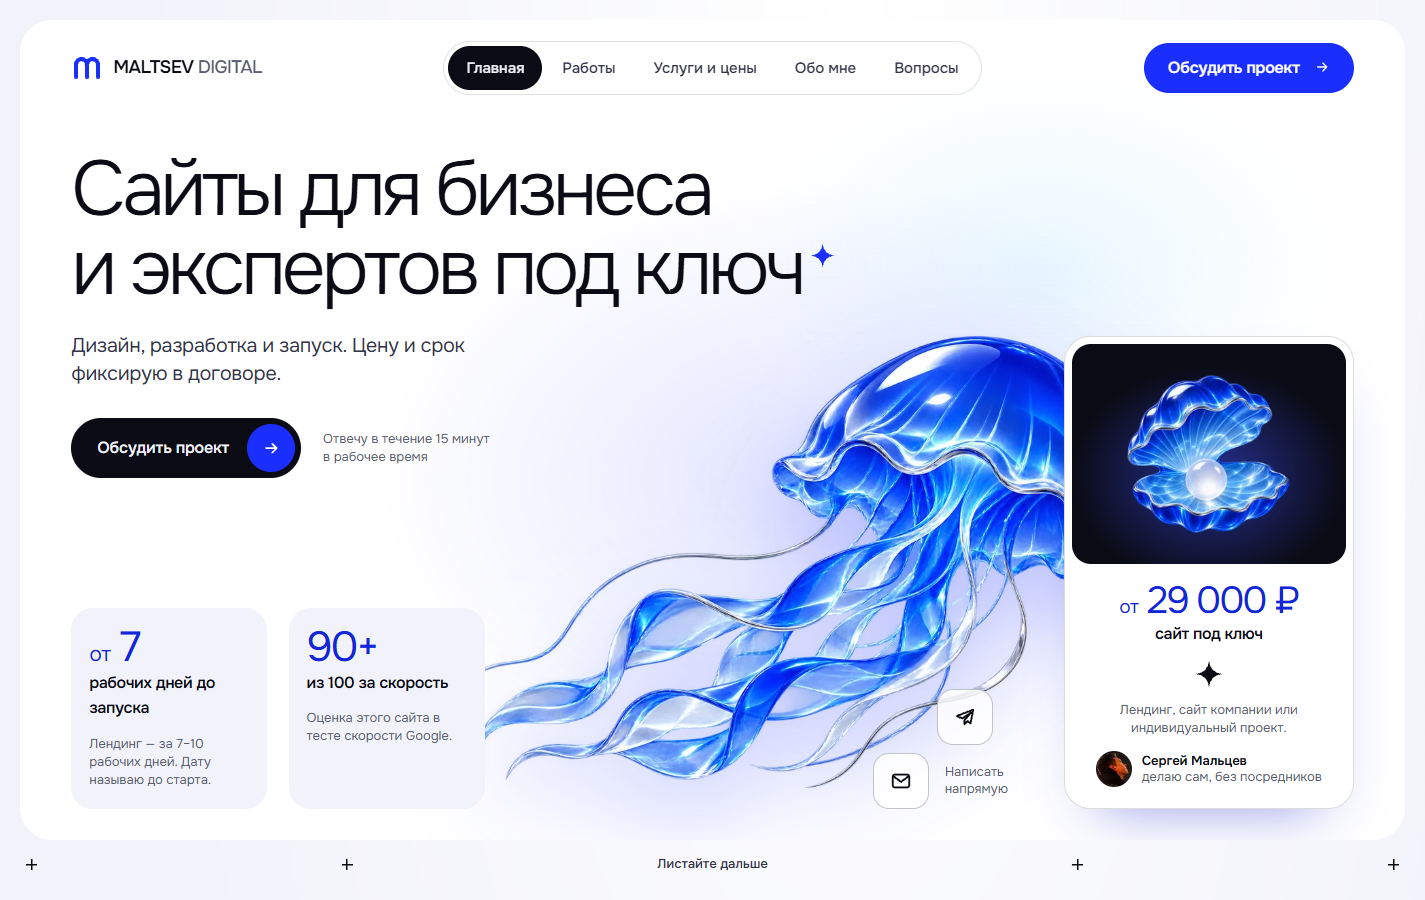
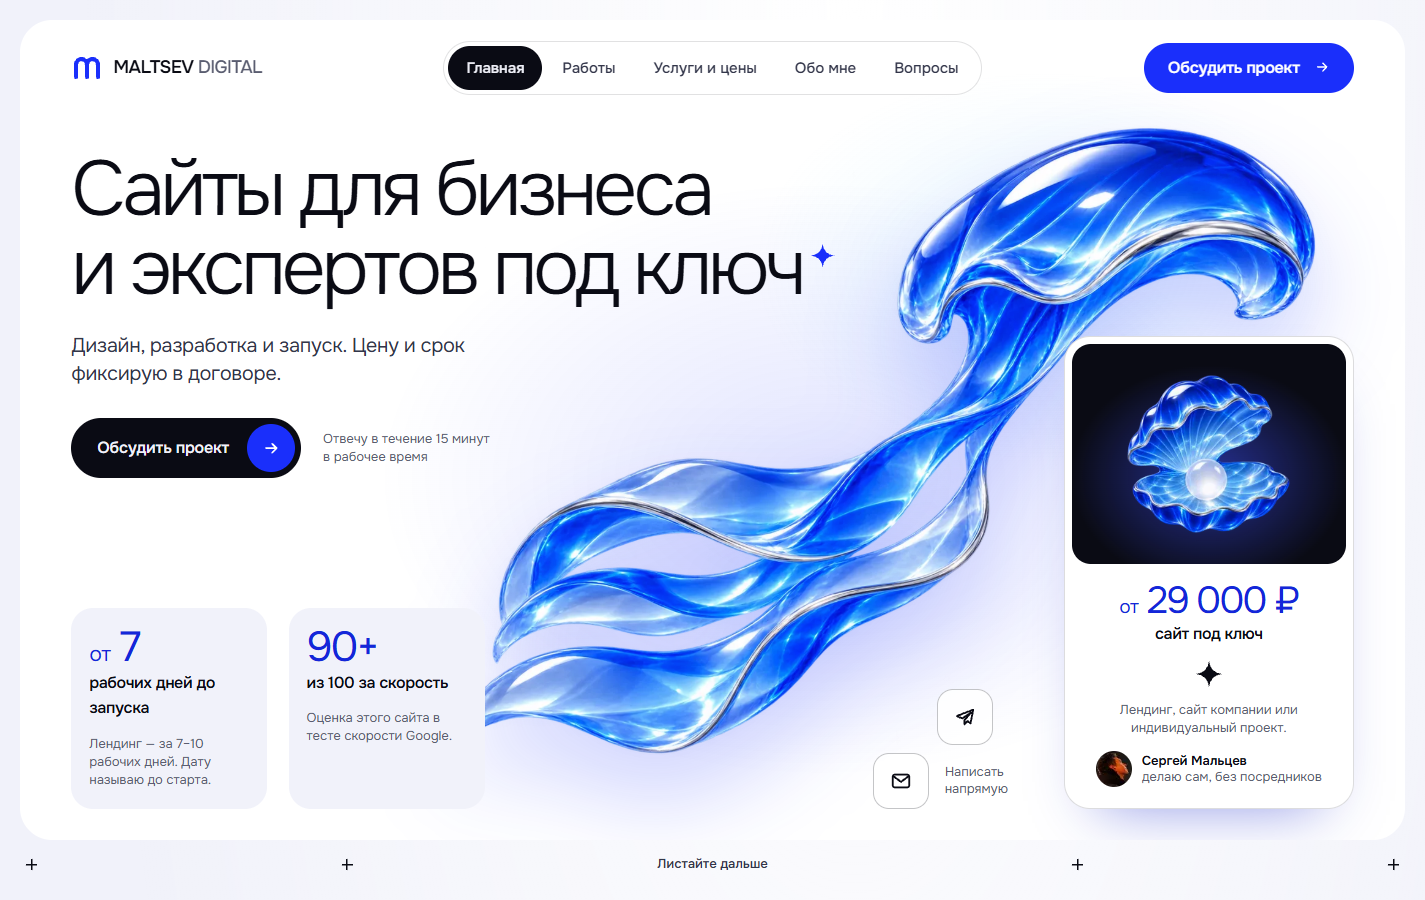
Fit glass wave artwork into the existing hero layout

Changed region(s): [[0.3396, 0.1244, 0.9263, 0.8711]]

diff --git a/IMAGE_GENERATION_PROMPTS.md b/IMAGE_GENERATION_PROMPTS.md
@@ -1,4 +1,4 @@
-# Задания на генерацию изображений — v4, серия «стеклянное море»
+# Задания на генерацию изображений — v5, серия «стеклянное море»
 
 Прошлые промпты (медуза, сборка окон для услуг, галерея и диалог) остались в истории git.
 
@@ -8,13 +8,14 @@
 и хромовое кольцо. На трёх страницах подряд это читается как одна и та же картинка, а облачка
 с вопросительным знаком и точками выглядят как иконка из мессенджера.
 
-Главный образ сайта — стеклянная медуза на первом экране. Новая серия продолжает его: на каждой
-странице один морской объект из того же стекла, со своим силуэтом и смыслом. Никаких панелей,
-символов и значков.
+Материал серии задан исходной стеклянной медузой `hero-object-v2.png`: синий электрик, прозрачный
+лазурный край и белые студийные блики. На первом экране её заменяет цельная стеклянная волна,
+созданная под свободную область существующего макета. На остальных страницах — морские объекты
+из того же стекла, со своим силуэтом и смыслом. Никаких панелей, символов и значков.
 
 | Страница | Объект | Смысл | Файл |
 |---|---|---|---|
-| Главная | медуза (уже есть) | — | `hero-object-v2.png` |
+| Главная | стеклянная волна | заполняет свободный контур без перестановки интерфейса | `hero-glass-wave.png` |
 | Работы | раковина наутилуса в разрезе — **стоит на сайте** | камеры — проекты, спираль — рост | `works-nautilus.png` |
 | Вопросы | морской конёк — **стоит на сайте** | силуэт сам похож на знак вопроса | `faq-seahorse.png` |
 | Контакты | бутылка с посланием — **стоит на сайте** | «напишите мне» | `contacts-bottle.png` |
@@ -33,8 +34,9 @@
 4. Делайте 3–4 варианта каждого объекта и выбирайте по силуэту: он должен узнаваться в размере
    со спичечный коробок.
 
-Вся серия сгенерирована и подключена 15.11.2026. Исходники лежат в `src/assets/gen/`: мусор по углам убран,
-пустые поля обрезаны (скрипт не хранится, шаги простые: обнулить альфу ниже 12, обрезать по объекту с запасом 4%).
+Объекты IMG-01–06 сгенерированы и подключены 15.11.2026. Исходники лежат в `src/assets/gen/`: мусор по углам
+убран, пустые поля обрезаны (скрипт не хранится, шаги простые: обнулить альфу ниже 12, обрезать по объекту
+с запасом 4%). Для новой волны сохранена исходная прозрачность генерации; её отдельный промпт — ниже.
 
 ## Общий стиль — добавлять в конец каждого промпта
 
@@ -44,6 +46,33 @@ Material and look: thick, heavy, polished blown art glass. Deep electric blue (#
 
 **Нельзя:** панели и окна браузера, ленты с хромовым кольцом вокруг объекта, знаки и буквы,
 мультяшные глаза и улыбки, тёмный фон, свечение вокруг объекта, пол и тень на полу.
+
+---
+
+## IMG-00 · `hero-glass-wave.png` — первый экран (готово)
+
+**Задача.** Вписать один красивый объект в отмеченную владельцем Г-образную область. Верхний завиток
+занимает место над высокой карточкой цены, широкие складки уходят влево и вниз. Заголовок, CTA,
+два факта, карточка цены и контакты сохраняют исходные позиции. По последней правке волна немного
+сдвинута влево, чтобы сократить зазор около звёздочки.
+
+**Референсы.** Первый — `src/assets/gen/hero-object-v2.png`, только материал, цвет и свет. Второй —
+скриншот владельца с красным контуром, только форма свободной области. Элементы сайта и контур
+не должны попадать в сгенерированное изображение.
+
+**Получено.** Встроенная генерация `image_gen`, PNG 1448×1086 с альфа-каналом, сохранён в
+`src/assets/gen/hero-glass-wave.png`. Формат задания — 4:3; общий блок 3:2 к этому промпту не добавляется.
+Варианты со скатом остались рабочими материалами в `output/hero-composition/` и не подключены.
+
+**Полный финальный промпт:**
+
+```text
+Generate ONE isolated premium glass sculpture on true transparent alpha. Landscape 4:3 canvas, 1536x1152.
+REFERENCE ROLES: Image 1 supplies ONLY the exact polished electric-blue blown-glass material, colour and bright white studio highlights. Image 2 is a website screenshot with a RED OUTLINE showing the precise available area. It is a composition guide ONLY. DO NOT generate the website, letters, text, buttons, cards, screenshot, red outline or any background. Output only the new glass object. The webpage elements cannot move; the object must adapt to their empty space.
+Subject: a single continuous sculptural OCEAN WAVE made of thick flowing blown art glass. An elegant asymmetric rising S-curve, like a museum glass masterpiece shaped by an ocean current. NOT a jellyfish, ray, fish, animal or character. No spheres or extra separate objects. The upper end is a broad beautifully rolled translucent wave crest in the UPPER RIGHT, with a large open curl and crisp cobalt edge. The main glass flow travels diagonally DOWN AND LEFT from this crest, widening into three generous flowing glass folds at the LOWER LEFT. The folds belong to one continuous wave sculpture, with rich refractive depth and beautiful internal gaps. They gently taper at their ends, no many tiny strings, no sharp spikes. Calm, precise, sophisticated, visually substantial but airy, strong elegant silhouette. Only a few delicate polished silver-chrome edges trace portions of the glass folds.
+CRITICAL silhouette and transparent cut-outs: Imagine the whole asset bounding box mapped to the red outline in screenshot 2. Occupy a hooked diagonal L-shaped footprint. The upper wave crest lives in the TOP-RIGHT rectangle: x=51% to96%, y=4% to28%. From there the sculpture bends left through a narrower neck near x=61%,y=37%, then becomes a broad flowing lower mass spanning x=5% to66%,y=40% to91%, ending towards the bottom-left. The TOP-LEFT region x<49%,y<32% MUST remain fully transparent for the headline. The RIGHT side below the crest, x>71%,y>32%, MUST remain fully transparent because the existing tall price card occupies that space. Also keep x>48%,y>79% transparent for the existing contact buttons. All glass must stay inside this diagonal L-shaped footprint; do not place a large body behind the price-card area. The shape should fill the allowed area generously, not look small inside a huge empty frame. Nothing cropped; 4% clear outer margins.
+Material: heavy polished blown art glass, deep electric blue #1A2FFB in thick folds, nearly clear icy azure at thin edges, strong refraction and soft internal caustics, crisp broad white specular highlights. Museum-quality CGI product render, bright clean studio light from the top left. The exact material family of image1. Blue, azure, white reflections and fine silver only. No purple, green, pink, orange or gold. NO aura or outer glow/haze, no floor, no pedestal, no cast ground shadow, no water background, no texture around the object, no bubbles, no ring, no surrounding confetti. Background must be fully transparent alpha including all negative spaces. No typography or logos.
+```
 
 ---
 

diff --git a/DESIGN_SPRINT_PROGRESS.md b/DESIGN_SPRINT_PROGRESS.md
@@ -138,3 +138,18 @@
 - `npm run check`: 53 файла, 0 ошибок и предупреждений. `check:launch` и сборка для GitHub Pages
   прошли успешно. Публикация выполняется существующим процессом после отправки в `main`;
   результат сообщается владельцу по завершении.
+
+## Объект первого экрана — 15.11.2026
+
+- По уточнению владельца сохранена исходная вёрстка: заголовок, CTA, факты, высокая карточка цены
+  и контакты остаются на прежних местах. Варианты с перестановкой блоков и скатом не подключены.
+- Встроенной генерацией создана цельная стеклянная волна под отмеченный Г-образный контур:
+  завиток справа над ценой, широкие складки влево и вниз. Файл `src/assets/gen/hero-glass-wave.png`,
+  1448×1086, прозрачный PNG; материал — по исходной медузе. Финальный промпт сохранён в
+  `IMAGE_GENERATION_PROMPTS.md`, IMG-00.
+- Скорректированы только выбор изображения и размещение декоративного объекта; последняя правка —
+  небольшой сдвиг волны влево у звёздочки. Замеры при 320, 390, 768, 1024, 1280, 1440 и 1920 px
+  показали 0 px изменений положения и размера остальных элементов первого экрана.
+- Обновлены три снимка главной для кейса. `npm run check`: 54 файла, 0 ошибок и предупреждений;
+  `check:launch` пройден, сборка для GitHub Pages успешна — 9 страниц. Публикация выполняется
+  существующим процессом после отправки в `main`; её результат сообщается владельцу по завершении.
